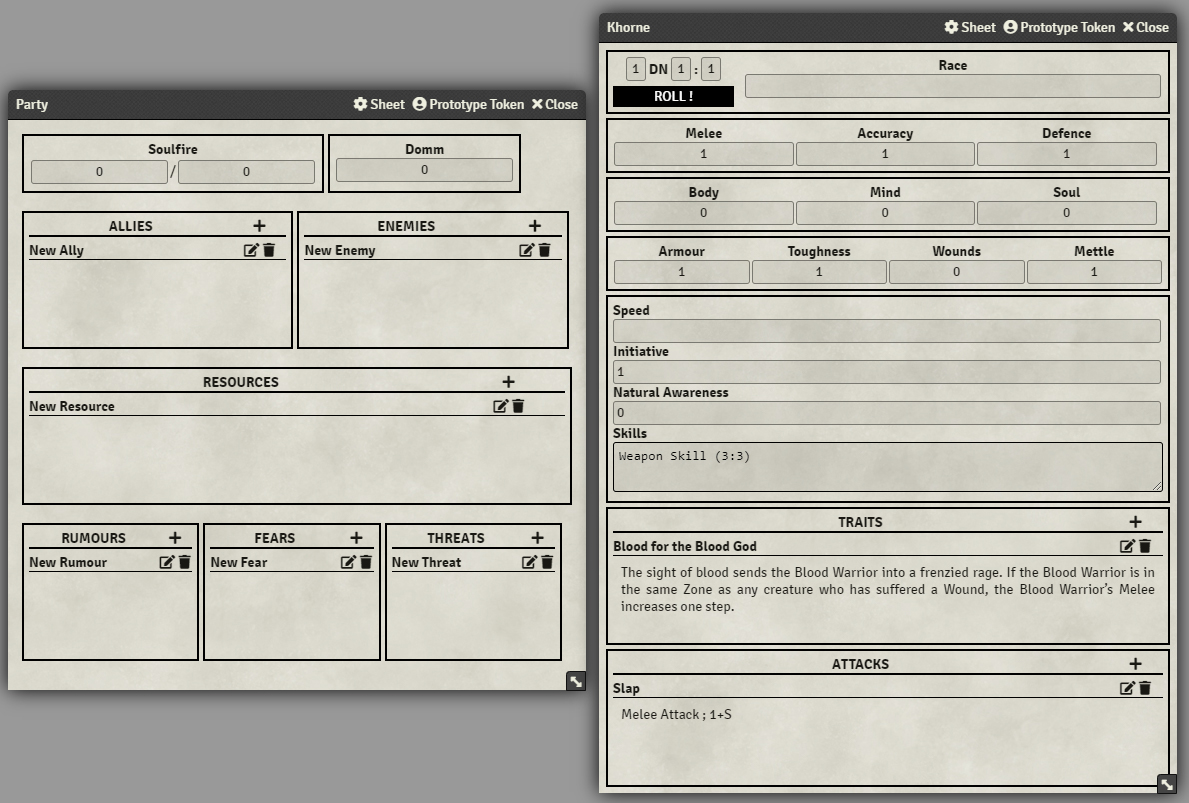
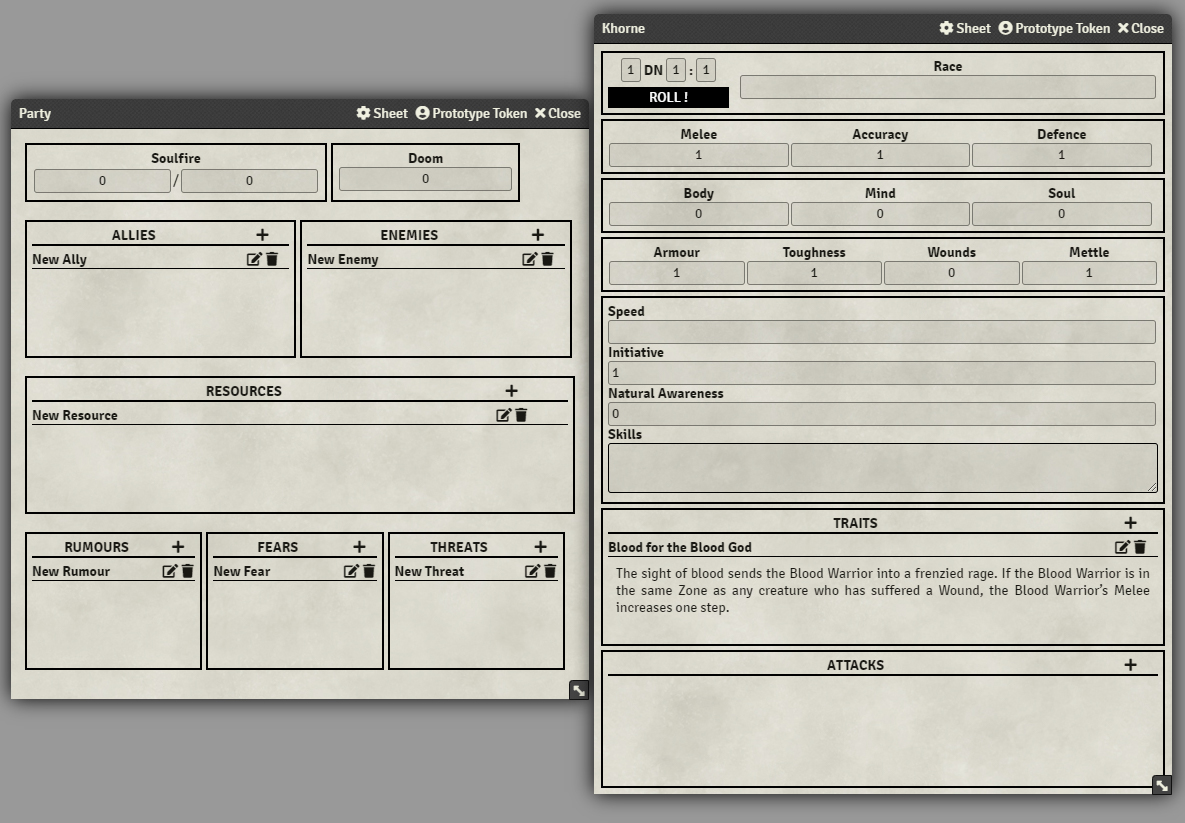
Fix typo in party sheet + update readme

Changed region(s): [[0.0, 0.0311, 0.9992, 1.0]]

diff --git a/templates/aos-actor-sheet-party.html b/templates/aos-actor-sheet-party.html
@@ -13,7 +13,7 @@
             </div>
             <div class="wrapper">
                 <div class="doom">
-                    <b>Domm</b>
+                    <b>Doom</b>
                     <input name="data.doom" type="text" value="{{data.doom}}">
                 </div>
             </div>

diff --git a/README.md b/README.md
@@ -7,8 +7,9 @@ A system for playing Age of Sigmar : Soulbound on Foundry VTT
 3. Create a Game World using the Age of Sigmar : Soulbound system.
 
 ## Sneaky Preview
-![Character Sheet](https://github.com/Perfectro/Age-of-Sigmar-Soulbound-FoundryVTT/blob/master/asset/character-sheet.jpg?raw=true)
-![Party & Npc Sheet](https://github.com/Perfectro/Age-of-Sigmar-Soulbound-FoundryVTT/blob/master/asset/party-npc-sheet.jpg?raw=true)
+- ![Character Sheet 1](https://github.com/Perfectro/Age-of-Sigmar-Soulbound-FoundryVTT/blob/master/asset/character-sheet-1.jpg?raw=true)
+- ![Character Sheet 2](https://github.com/Perfectro/Age-of-Sigmar-Soulbound-FoundryVTT/blob/master/asset/character-sheet-2.jpg?raw=true)
+- ![Party & Npc Sheet](https://github.com/Perfectro/Age-of-Sigmar-Soulbound-FoundryVTT/blob/master/asset/party-npc-sheet.jpg?raw=true)
 
 ## To be done in the nearest future
 Nothing. You are more than welcome to fork this project !
